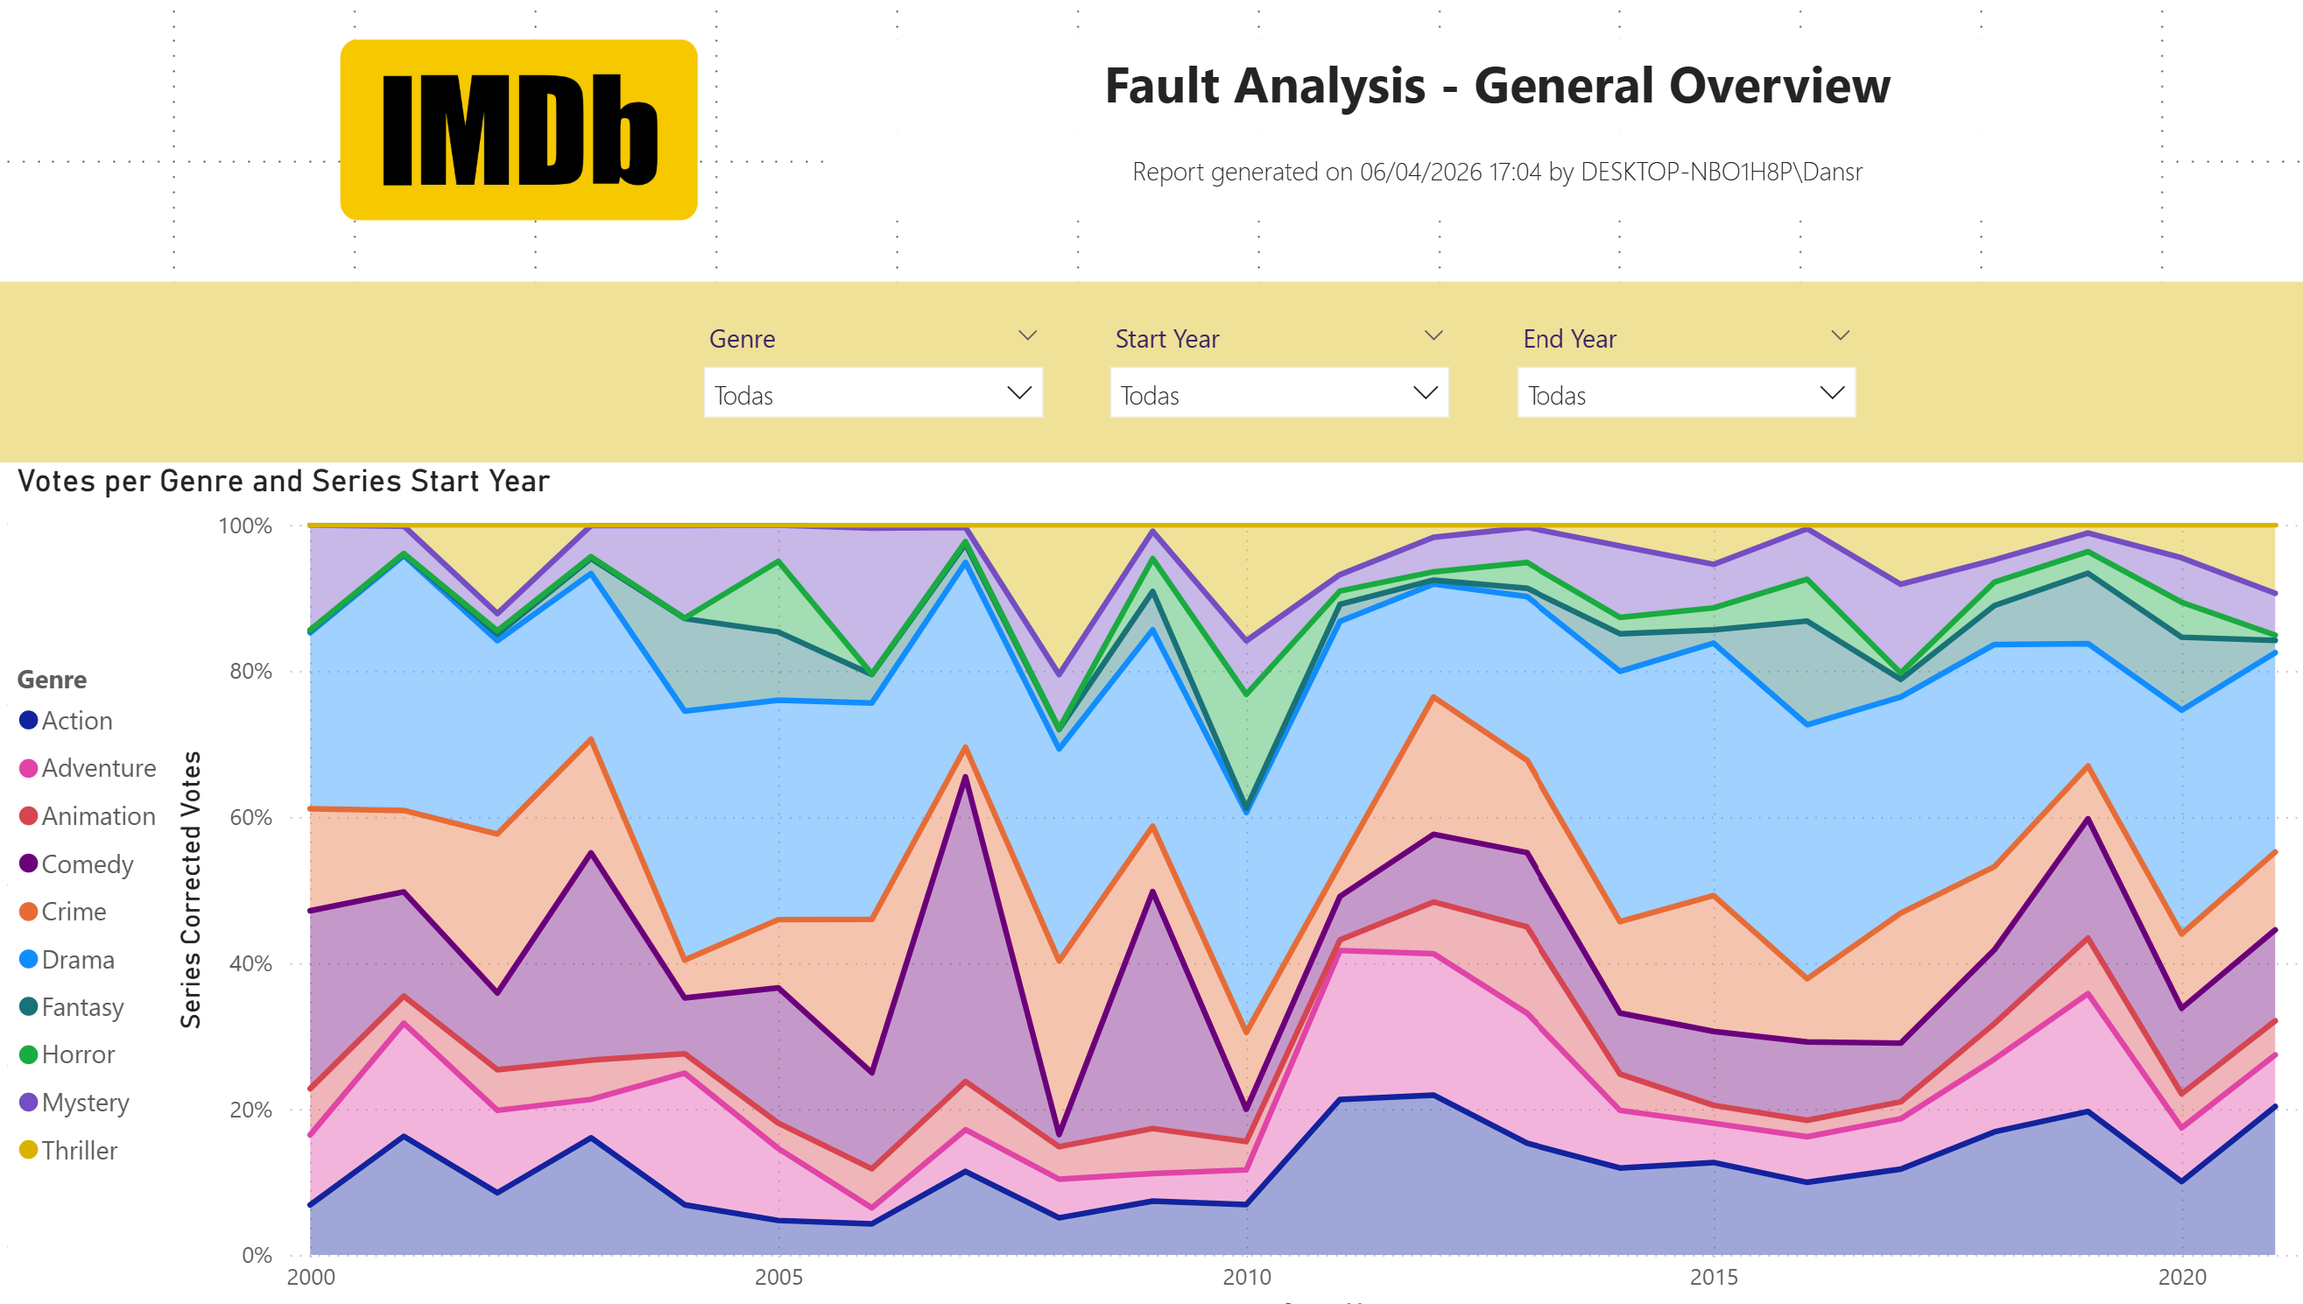
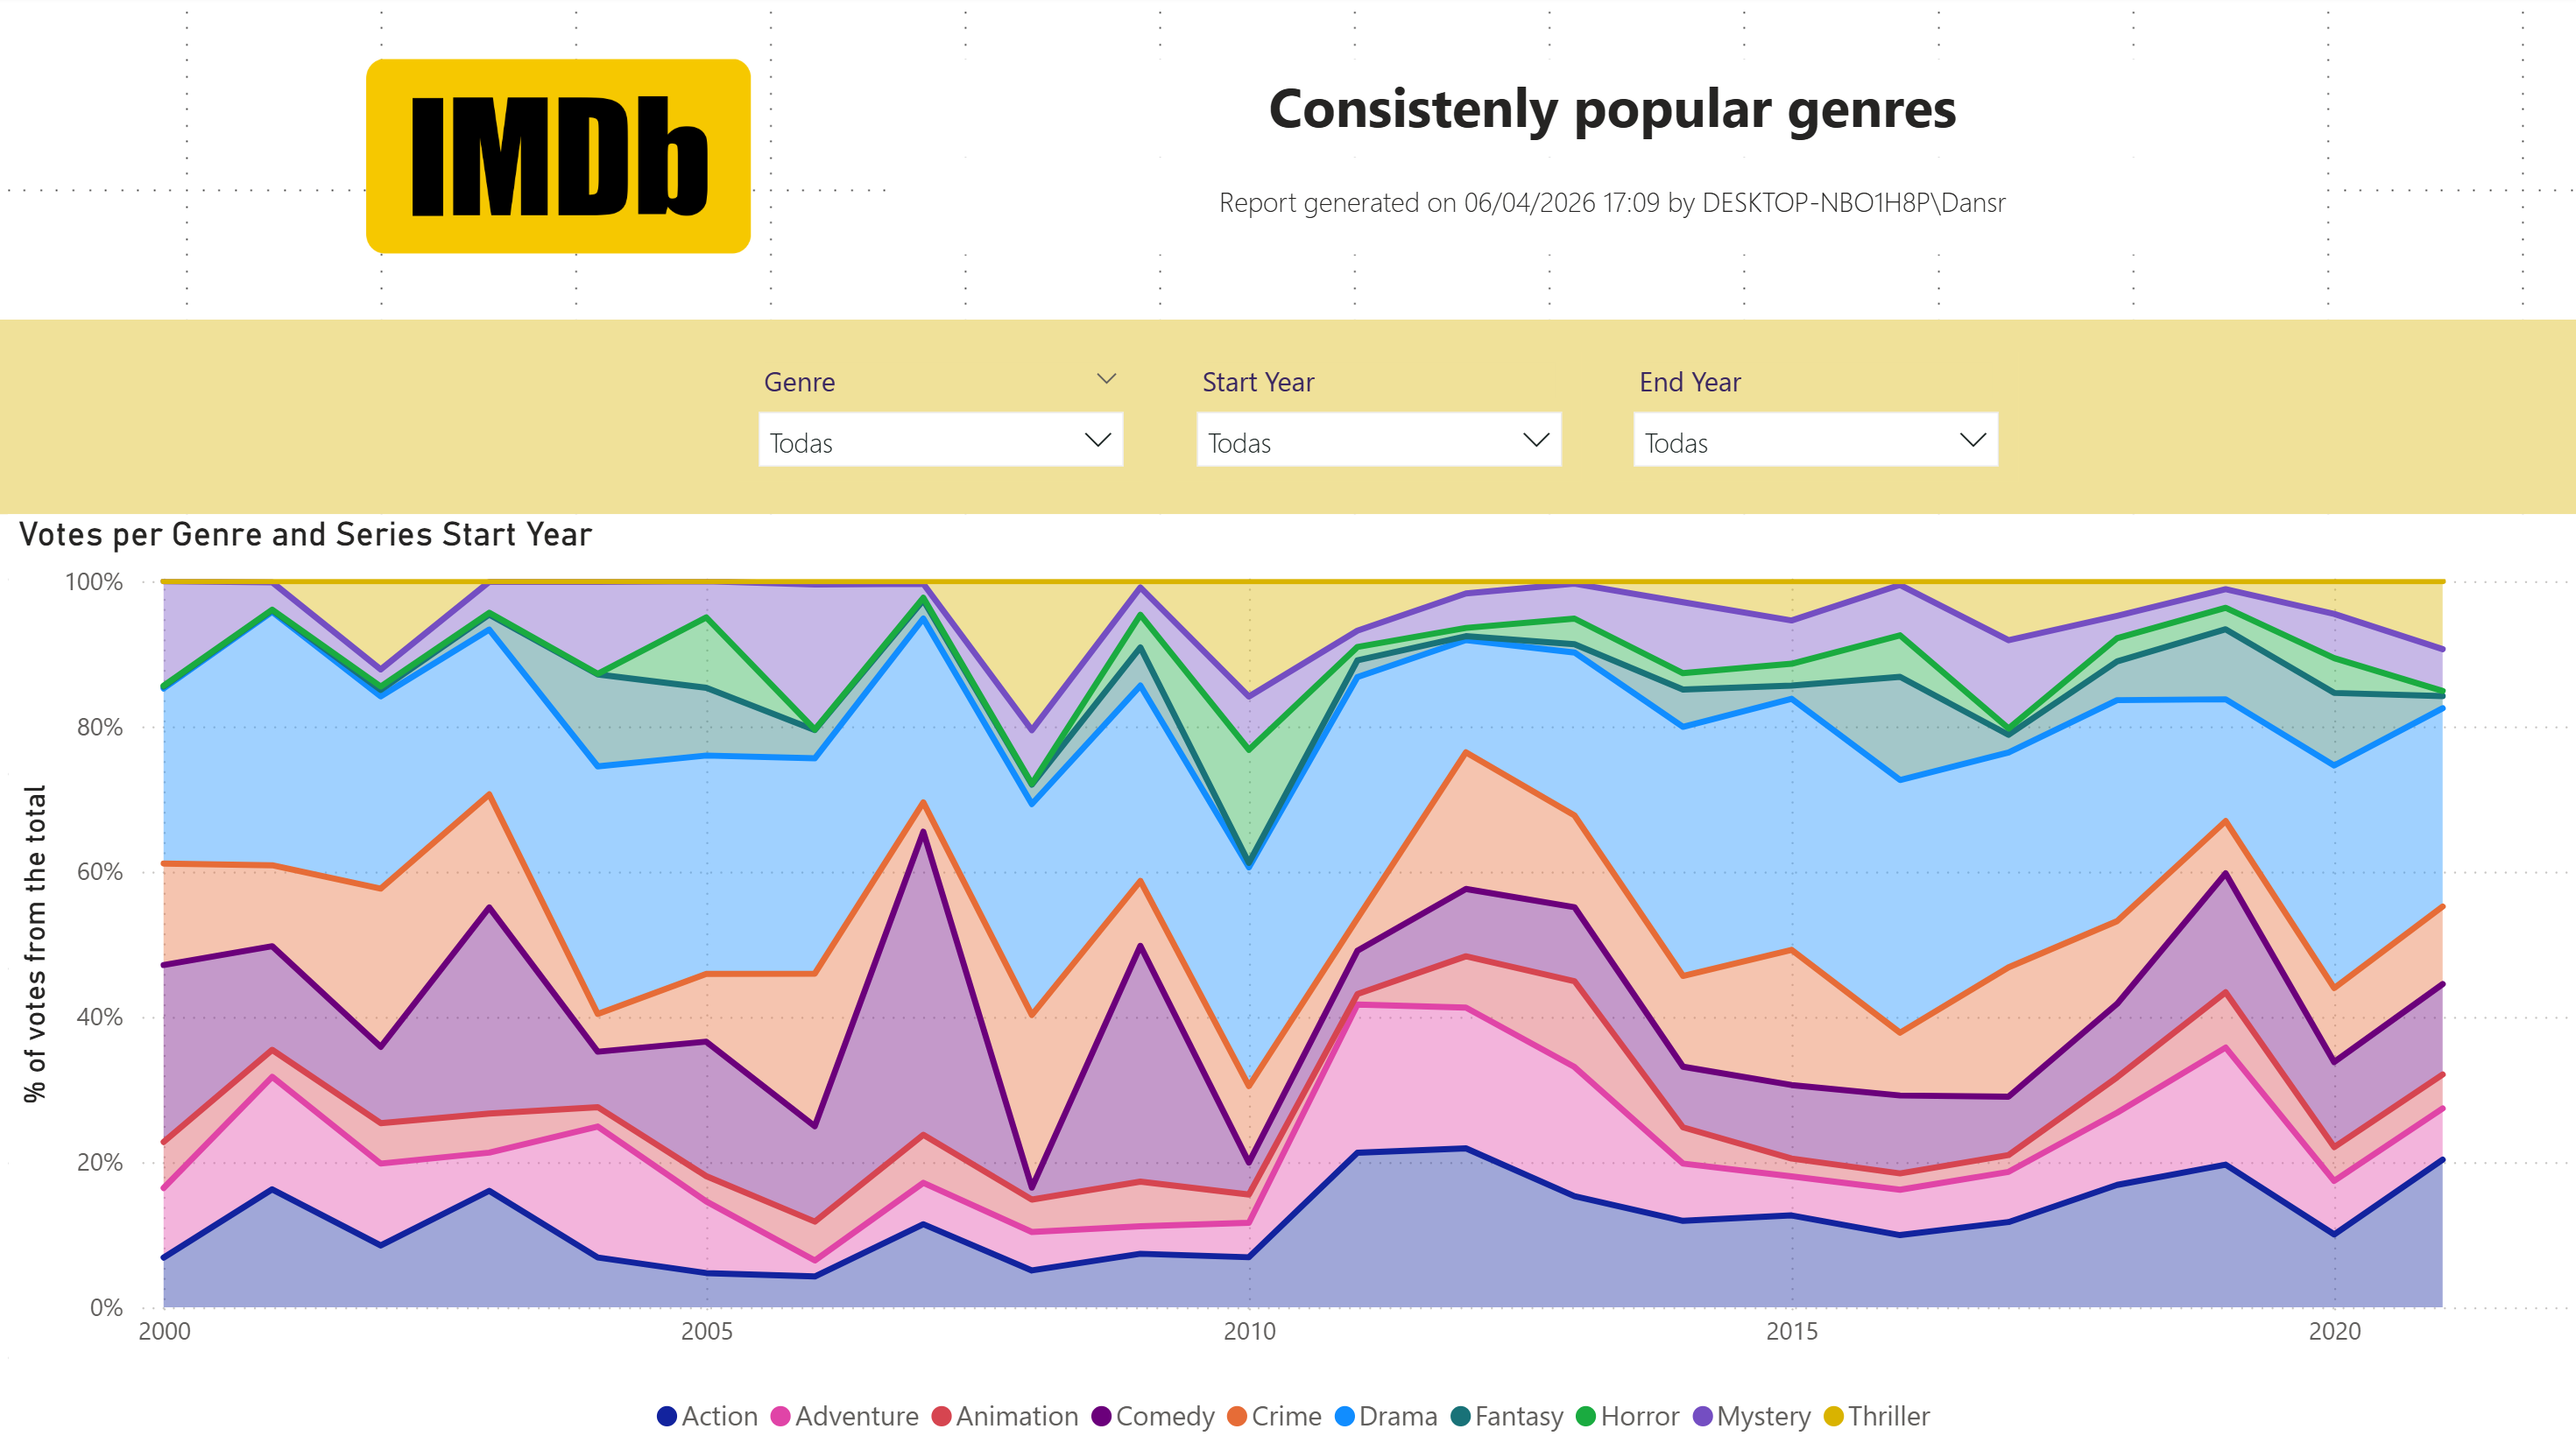
Report - Business Questions

diff --git a/report.md b/report.md
@@ -436,7 +436,11 @@ The `fact_ratings` table is designed at a Participant-per-Episode grain. This me
 
 ![Q6](Visualization/Q6.png)
 
+While the TV landscape features over 28 genres, popularity is consistently dominated by a core group. As seen in the visualization, Drama, Action and Comedy maintain a combined vote share of over 40% consistently since the year 2000."
+
 ### Q7 — Who are the top 10 directors whose movies have the highest average rating with at least 100,000 total votes?
+
+
 
 ### Q8 — Who are the top 10 actors whose movies have the highest average rating with at least 100,000 total votes?
 
